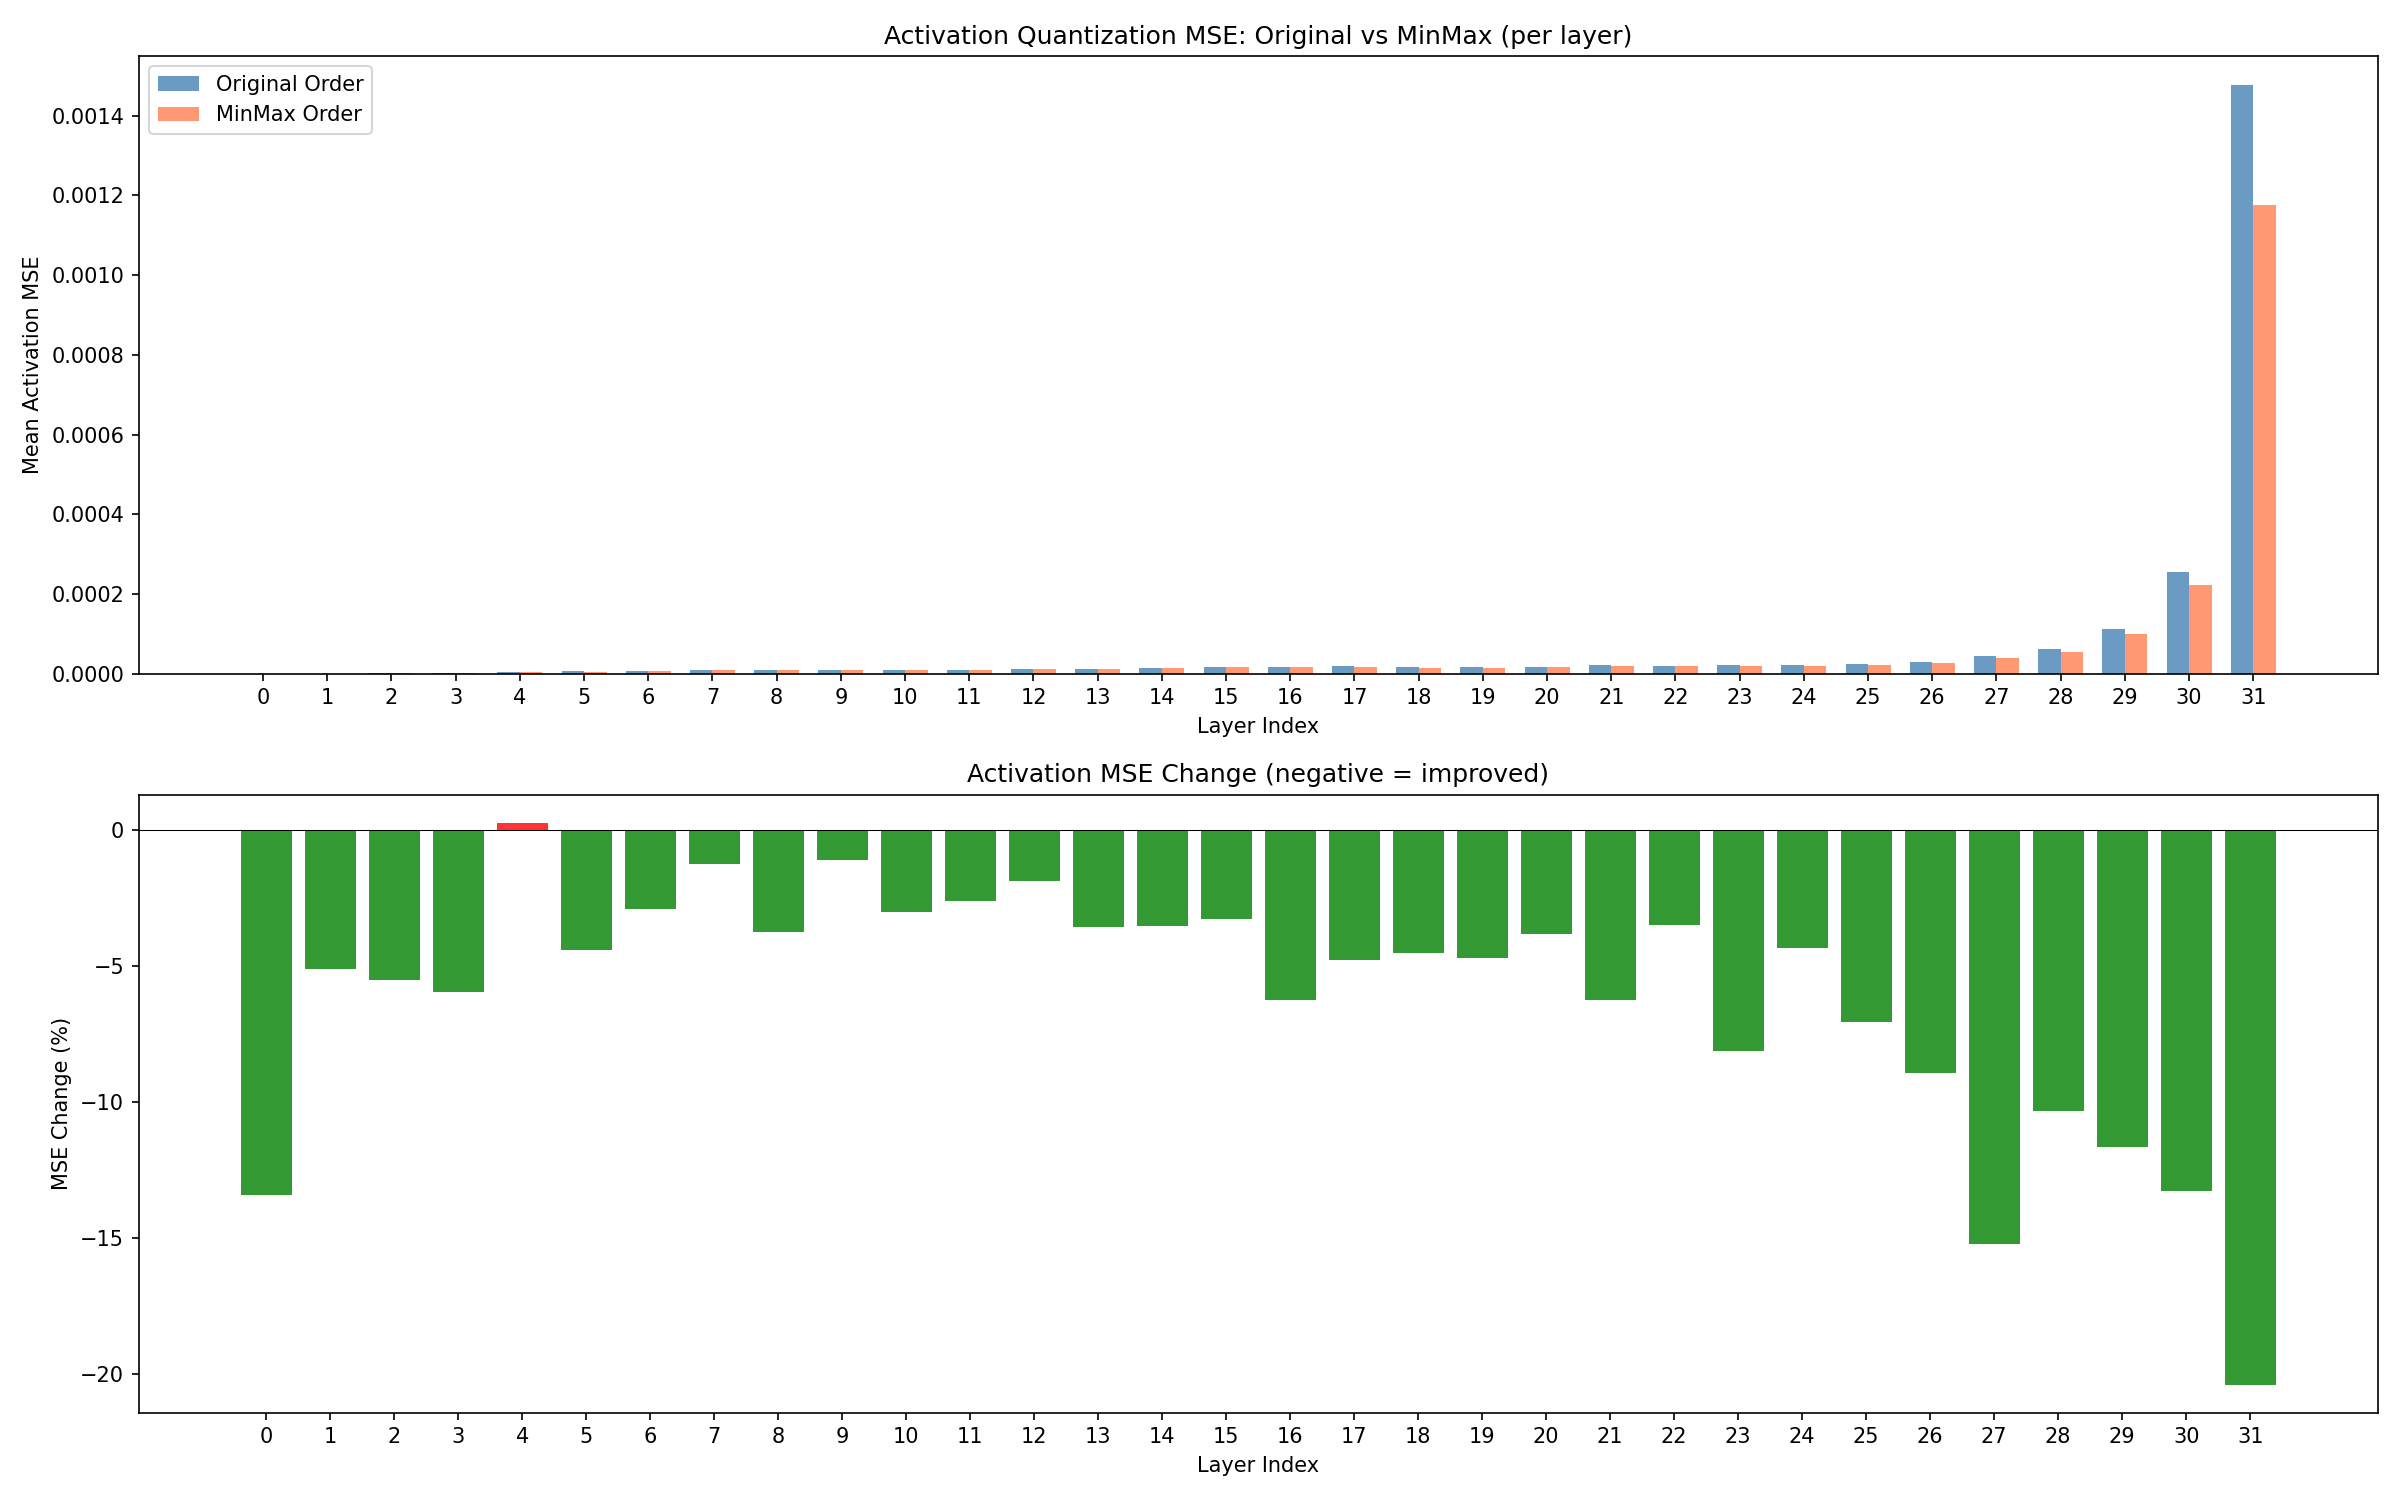
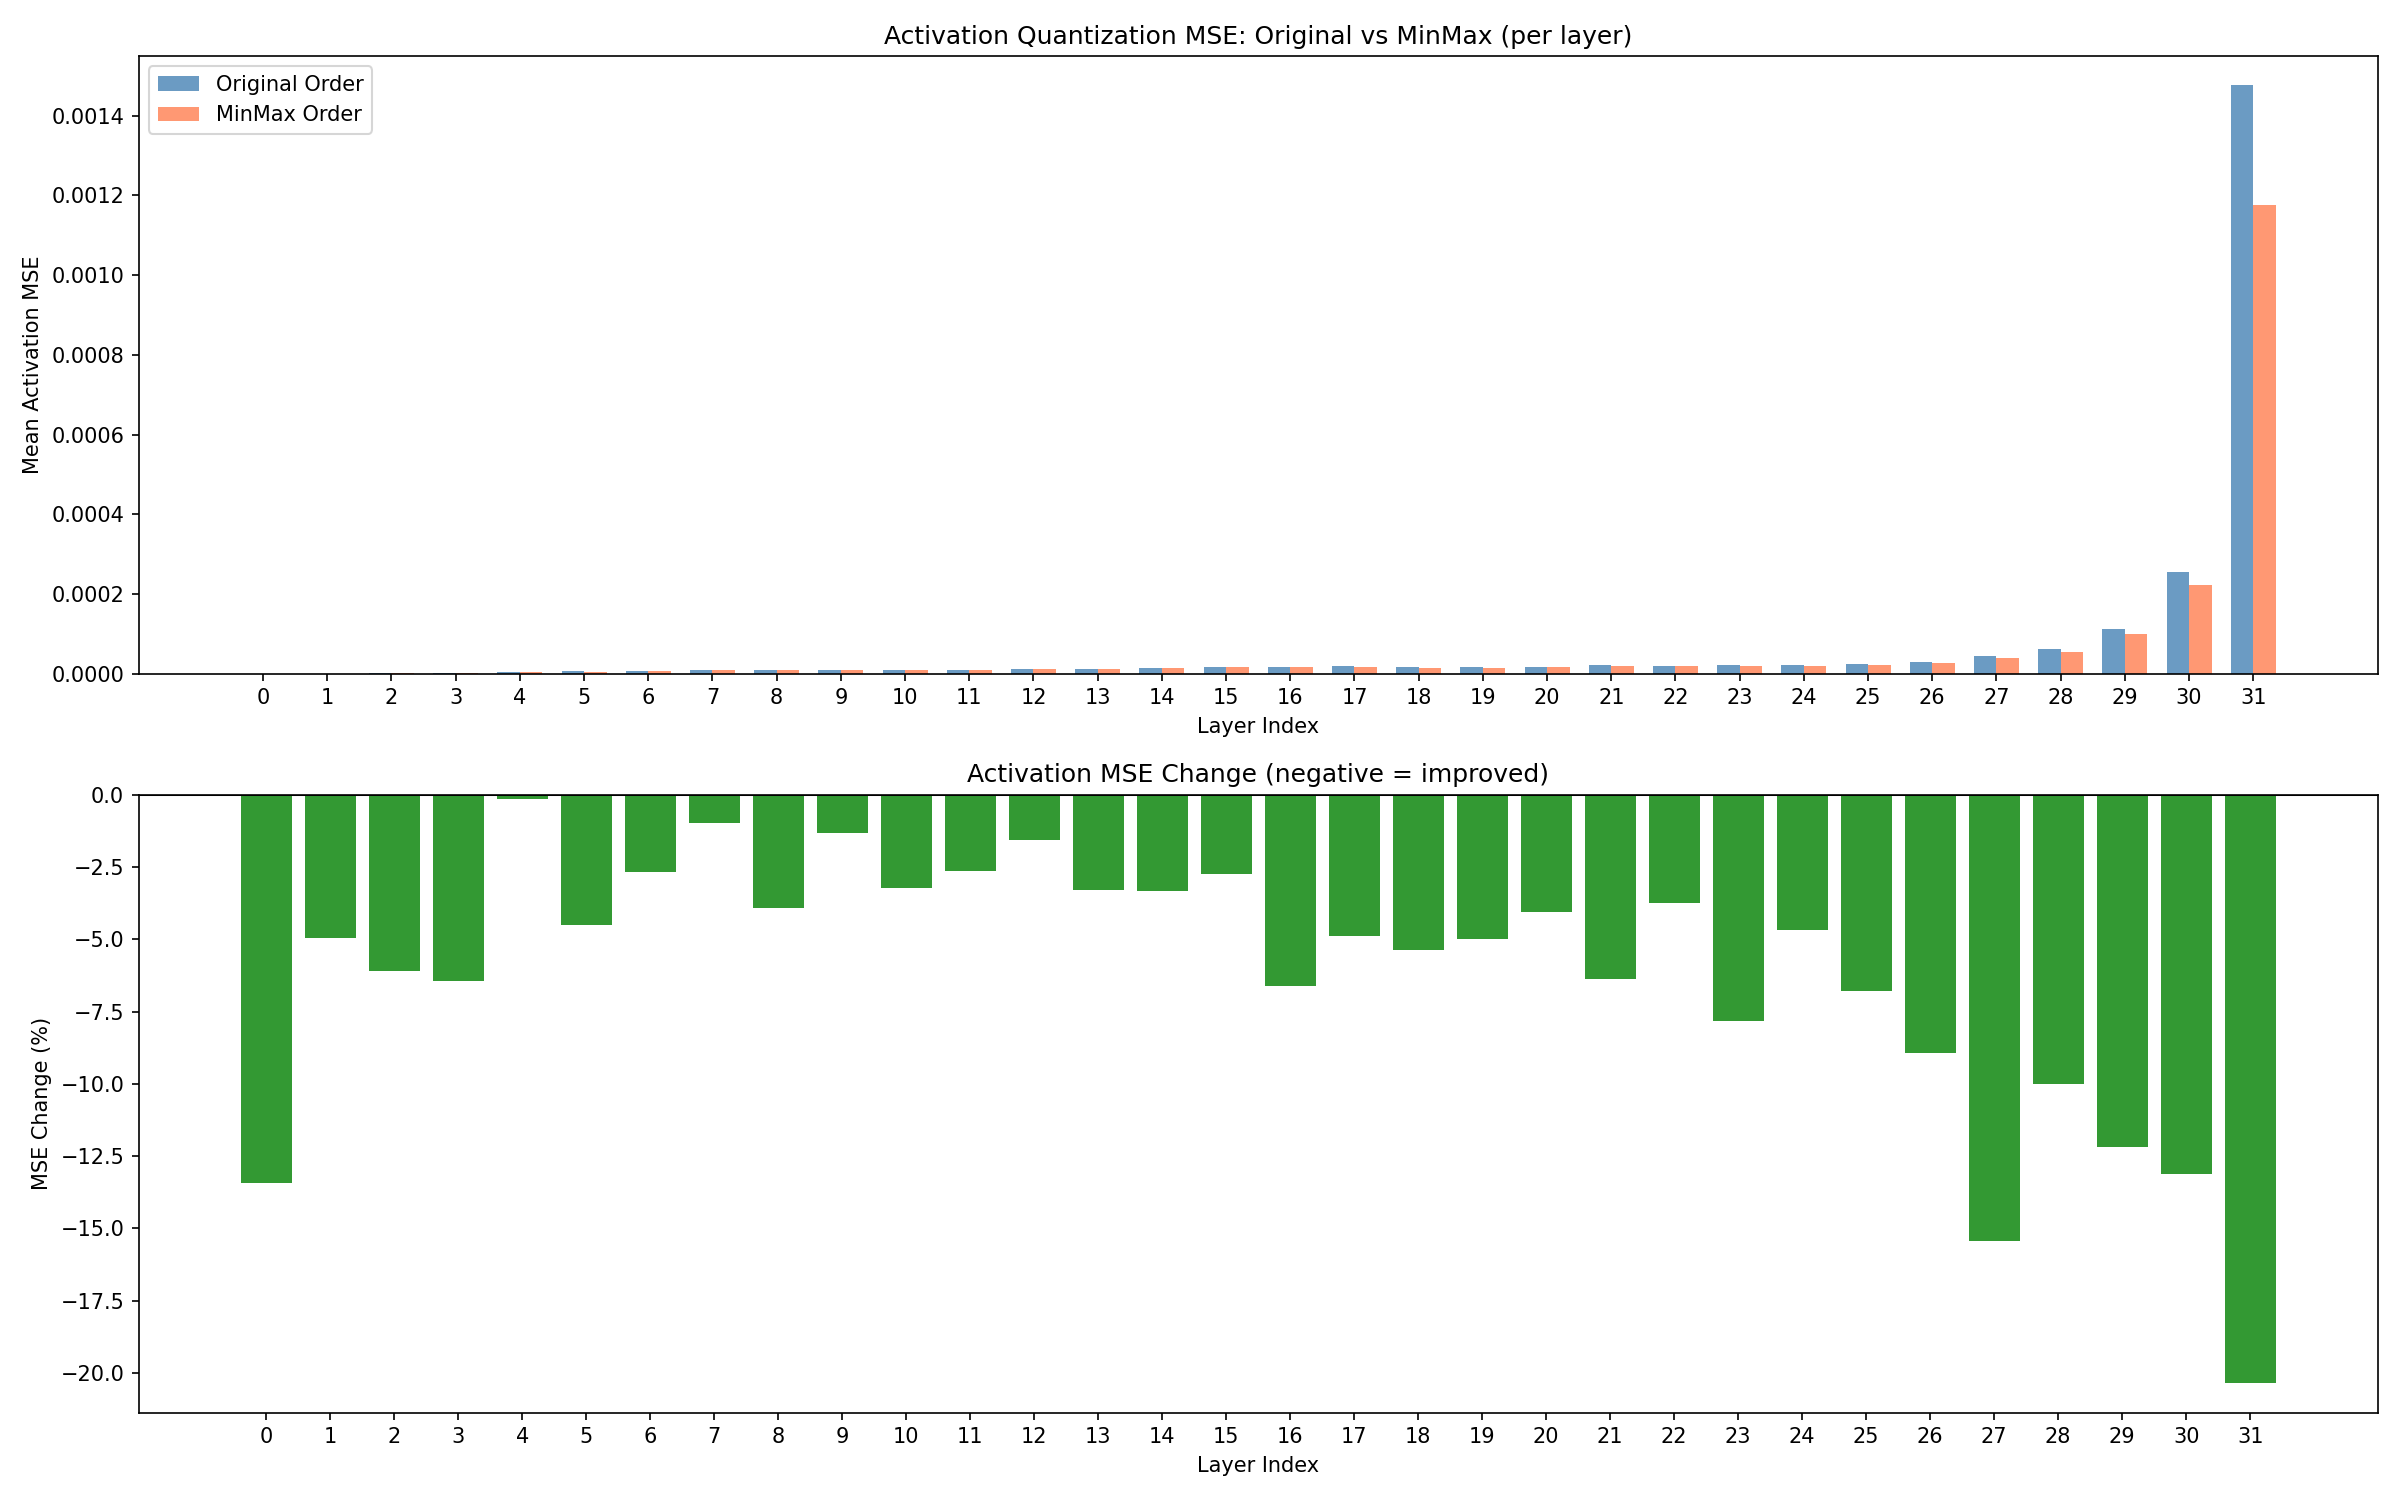
NVFP: P95 order->score order

diff --git a/src/quantization/gptq.py b/src/quantization/gptq.py
@@ -451,8 +451,8 @@ def gptq_quantization(
                 remaining_mask = torch.ones(N, dtype=torch.bool, device=act_stat.device)
                 remaining_mask[anchors] = False
                 remaining_idx = remaining_mask.nonzero(as_tuple=True)[0]
-                remaining_p95 = act_stat[remaining_idx]
-                rem_sorted_idx = remaining_idx[torch.argsort(remaining_p95, descending=True)]
+                remaining_score = score[remaining_idx]
+                rem_sorted_idx = remaining_idx[torch.argsort(remaining_score, descending=True)]
                 group_scales = torch.tensor([act_stat[a] / 6.0 + 1e-12 for a in anchors], device=act_stat.device)
                 group_w_sums = torch.tensor([w_norm[a] for a in anchors], device=act_stat.device)
                 for ch_idx in rem_sorted_idx.tolist():

diff --git a/src/quantization/rtn.py b/src/quantization/rtn.py
@@ -246,8 +246,8 @@ def rtn_quantization(
                 remaining_mask = torch.ones(N, dtype=torch.bool, device=act_stat.device)
                 remaining_mask[anchors] = False
                 remaining_idx = remaining_mask.nonzero(as_tuple=True)[0]
-                remaining_p95 = act_stat[remaining_idx]
-                rem_sorted_idx = remaining_idx[torch.argsort(remaining_p95, descending=True)]
+                remaining_score = score[remaining_idx]
+                rem_sorted_idx = remaining_idx[torch.argsort(remaining_score, descending=True)]
                 group_scales = torch.tensor([act_stat[a] / 6.0 + 1e-12 for a in anchors], device=act_stat.device)
                 group_w_sums = torch.tensor([w_norm[a] for a in anchors], device=act_stat.device)
                 for ch_idx in rem_sorted_idx.tolist():

diff --git a/minmax_nv.py b/minmax_nv.py
@@ -33,8 +33,8 @@ def compute_nvfp4_scale_first_perm(act_stat, w_norm, group_size=16):
     remaining_mask = torch.ones(N, dtype=torch.bool, device=act_stat.device)
     remaining_mask[anchors] = False
     remaining_idx = remaining_mask.nonzero(as_tuple=True)[0]
-    remaining_p95 = act_stat[remaining_idx]
-    rem_sorted_idx = remaining_idx[torch.argsort(remaining_p95, descending=True)]
+    remaining_score = score[remaining_idx]
+    rem_sorted_idx = remaining_idx[torch.argsort(remaining_score, descending=True)]
     group_scales = torch.tensor([act_stat[a] / 6.0 + 1e-12 for a in anchors], device=act_stat.device)
     group_w_sums = torch.tensor([w_norm[a] for a in anchors], device=act_stat.device)
     for ch_idx in rem_sorted_idx.tolist():
